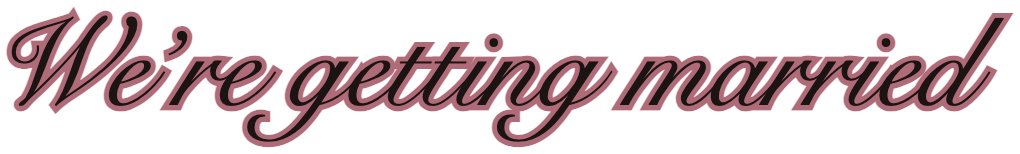
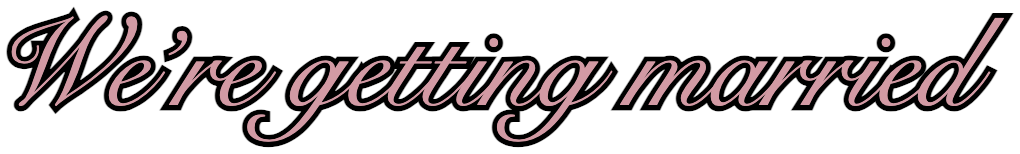
Restack the cover per the Canva mockup; invert the script, romanise the venue
The calligraphy moves from under the heart to just below SAVE THE DATE, so the
cover now reads top-down as label, script, heart. The heart grows to 73% of the
frame (scale 1.28) and drops to sit under the script, whose descenders overlap
its upper notch as in the mockup.

- Script re-baked with the fills swapped: pink letters, black contour
- Heart date re-baked with 천안 더포레 as THE FORET, CHEONAN, which also drops the
  Hangul fallback so the block is Chalkduster throughout
- Date block widened to hold the mockup's 0.64 date-to-heart width ratio

diff --git a/index.html b/index.html
@@ -69,23 +69,23 @@
   .name-tag { position:absolute; z-index:3; font-family:var(--script); font-style:italic; font-size:24px; color:#fff; text-shadow:0 2px 10px rgba(0,0,0,.6); letter-spacing:1px; white-space:nowrap; }
   .name-tag.groom { top:70%; left:9%; transform:rotate(-5deg); }
   .name-tag.bride { top:70%; right:8%; transform:rotate(5deg); }
-  .cover-top { position:absolute; top:40px; left:0; right:0; text-align:center; z-index:4; }
+  .cover-top { position:absolute; top:36px; left:0; right:0; text-align:center; z-index:4; }
   .cover-top .lab { font-family:var(--serif2); font-size:11px; letter-spacing:5px; color:#5e3138; text-transform:uppercase;
     text-shadow:0 1px 3px rgba(255,255,255,.55); }
-  /* Snell Roundhand 캘리그래피 타이틀. 하트 아래쪽 끝에 걸치도록 배치합니다. */
-  .cover-script { position:absolute; top:284px; left:50%; transform:translateX(-50%); width:90%; max-width:340px; height:auto; z-index:5;
-    filter:drop-shadow(0 3px 7px rgba(0,0,0,.3)); }
+  /* Snell Roundhand 캘리그래피 타이틀. SAVE THE DATE 바로 아래, 하트 위쪽에 겹칩니다. */
+  .cover-script { position:absolute; top:60px; left:50%; transform:translateX(-50%); width:92%; max-width:404px; height:auto; z-index:5;
+    filter:drop-shadow(0 3px 7px rgba(0,0,0,.35)); }
   .cover-deco { position:absolute; inset:0; z-index:3; pointer-events:none; font-family:var(--script); color:#fff; }
   .cover-spark { position:absolute; font-family:var(--serif2); font-size:18px; color:var(--pink-soft); text-shadow:0 2px 8px rgba(0,0,0,.4); }
   .cover-spark.s1 { left:34px; top:52%; }
   .cover-spark.s2 { right:44px; top:56%; font-size:13px; }
   .cover-spark.s3 { left:54%; bottom:150px; font-size:16px; }
-  .heart-stage { position:absolute; top:62px; left:50%; transform:translateX(-50%) scale(1.092); transform-origin:top center; width:252px; height:226px; display:flex; align-items:center; justify-content:center; z-index:3; }
+  .heart-stage { position:absolute; top:94px; left:50%; transform:translateX(-50%) scale(1.28); transform-origin:top center; width:252px; height:226px; display:flex; align-items:center; justify-content:center; z-index:3; }
   .heart-stage svg { position:absolute; width:250px; height:226px; }
   .heart-stage svg.back { transform:rotate(-9deg) translate(8px,9px) scale(1.02); filter:drop-shadow(0 6px 10px rgba(0,0,0,.5)); }
   .heart-stage svg.front { transform:rotate(5deg) translate(-2px,0); filter:drop-shadow(3px 6px 6px rgba(0,0,0,.45)); }
   /* Chalkduster 로 렌더해 이미지로 고정했습니다(한글은 Chalkduster 에 글리프가 없어 손글씨 서체) */
-  .heart-date-img { position:relative; z-index:4; width:152px; height:auto; display:block; transform:translateY(6px) rotate(2deg); }
+  .heart-date-img { position:relative; z-index:4; width:160px; height:auto; display:block; transform:translateY(4px) rotate(2deg); }
   .scroll-hint { position:absolute; bottom:26px; left:50%; transform:translateX(-50%); width:1px; height:34px; background:linear-gradient(#fff,transparent); z-index:3; animation:drop 2.2s ease-in-out infinite; }
   @keyframes drop { 0%,100%{opacity:.15;} 50%{opacity:.9;} }
 
@@ -287,7 +287,7 @@
     <div class="heart-stage">
       <svg class="back" viewBox="0 0 100 90"><path d="M47 84 L37 76 L20 66 L8 50 L5 35 L12 18 L27 9 L40 14 L51 29 L62 11 L78 8 L92 18 L97 35 L91 52 L77 66 L59 78 Z" fill="#b06b78"/></svg>
       <svg class="front" viewBox="0 0 100 90"><path d="M49 84 L39 78 L25 66 L10 52 L6 34 L14 17 L31 10 L43 17 L52 31 L63 13 L79 7 L93 18 L96 34 L88 53 L74 68 L58 77 Z" fill="#d29aa4"/></svg>
-      <img class="heart-date-img" src="assets/heart-date.png" alt="2026년 10월 9일 금요일 오후 1시 · 천안 더포레" fetchpriority="high" />
+      <img class="heart-date-img" src="assets/heart-date.png" alt="2026년 10월 9일 금요일 오후 1시 · 천안 더포레 (THE FORET, CHEONAN)" fetchpriority="high" />
     </div>
     <!-- Snell Roundhand 로 렌더해 이미지로 고정했습니다(폰트 없는 기기에서도 그대로 보입니다) -->
     <img class="cover-script" src="assets/cover-title.png" alt="We&rsquo;re getting married" fetchpriority="high" />
